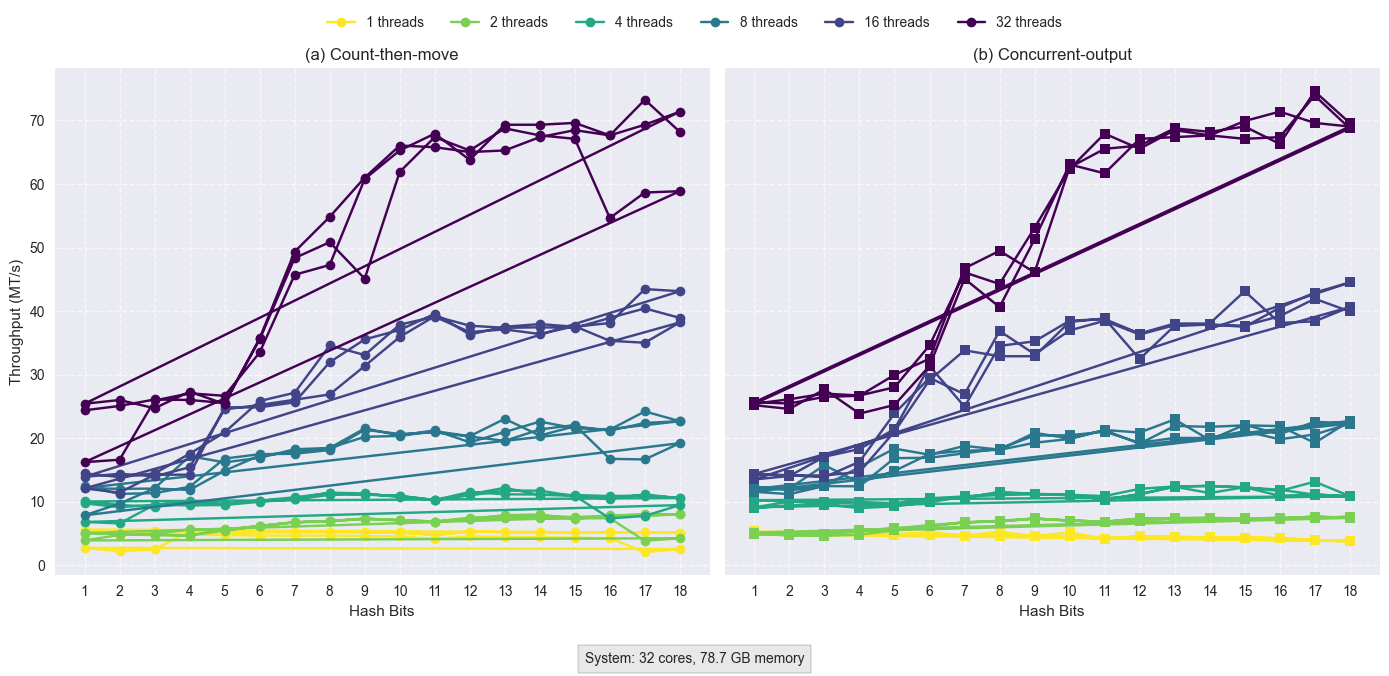
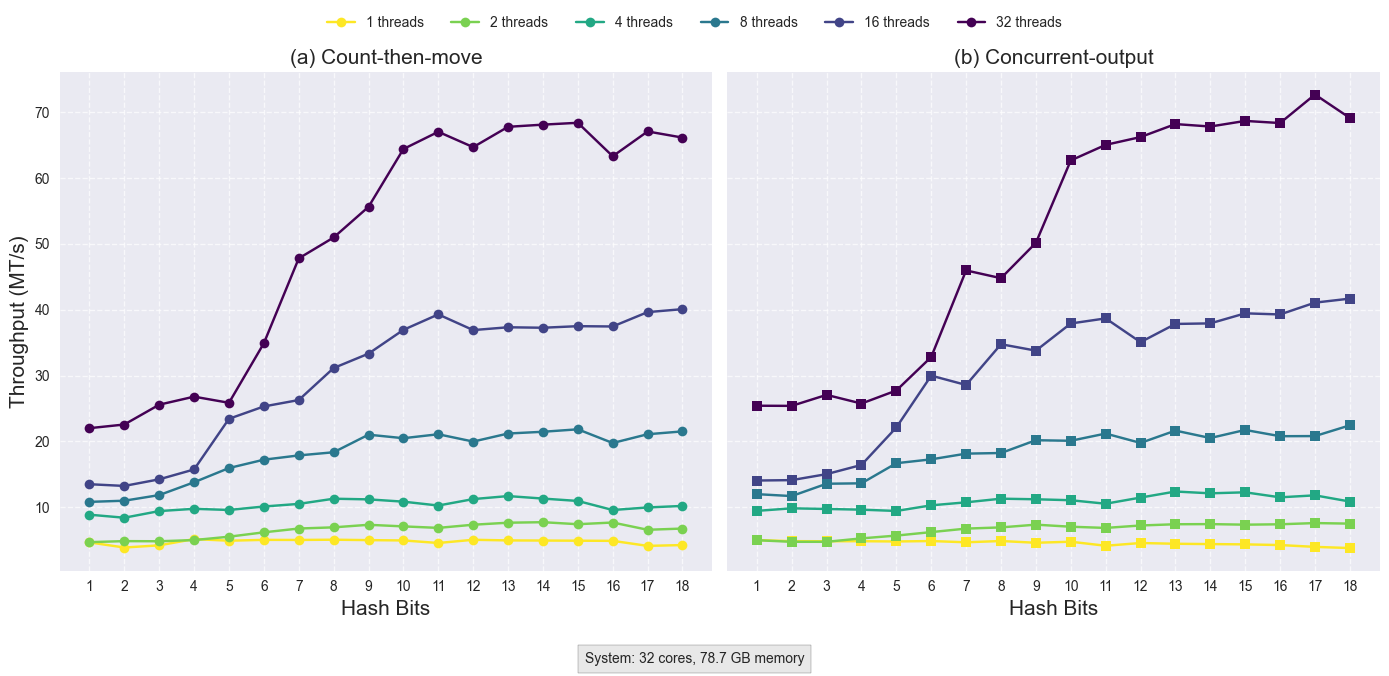
Mean shit

diff --git a/assignment1/stats.py b/assignment1/stats.py
@@ -14,9 +14,8 @@ metrics_df['Throughput(MT/s)'] = metrics_df['data_size'] / \
     metrics_df['duration'] / 1000
 
 # Split into two sets based on column "algorithm"
-count_then_move_df = metrics_df[metrics_df['algorithm'] == 'count-then-move']
-concurrent_output_df = metrics_df[metrics_df['algorithm']
-                                  == 'concurrent-output']
+count_then_move_df = metrics_df[metrics_df['algorithm'] == 'count-then-move'].groupby(['algorithm', 'threads', 'hashbits'], as_index=False).mean()
+concurrent_output_df = metrics_df[metrics_df['algorithm'] == 'concurrent-output'].groupby(['algorithm', 'threads', 'hashbits'], as_index=False).mean()
 
 # Create subplots
 fig, (ax1, ax2) = plt.subplots(1, 2, figsize=(14, 6), sharey=True)
@@ -41,9 +40,9 @@ for i, thread in enumerate(sorted(count_then_move_df['threads'].unique())):
              color=colors[i],
              label=f'{thread} threads')
 
-ax1.set_title('(a) Count-then-move')
-ax1.set_xlabel('Hash Bits')
-ax1.set_ylabel('Throughput (MT/s)')
+ax1.set_title('(a) Count-then-move', fontsize=15)
+ax1.set_xlabel('Hash Bits', fontsize=15)
+ax1.set_ylabel('Throughput (MT/s)', fontsize=15)
 ax1.grid(True, linestyle='--', alpha=0.7)
 max_hashbits = max(metrics_df['hashbits'])
 ax1.set_xticks(range(1, max_hashbits + 1))
@@ -58,14 +57,10 @@ if not concurrent_output_df.empty:
                  color=colors[i],
                  label=f'{thread} threads')
 
-    ax2.set_title('(b) Concurrent-output')
-    ax2.set_xlabel('Hash Bits')
-    ax2.grid(True, linestyle='--', alpha=0.7)
-    ax2.set_xticks(range(1, max_hashbits + 1))
-else:
-    ax2.set_title('(b) Concurrent-output (No data)')
-    ax2.set_xlabel('Hash Bits')
-    ax2.grid(True, linestyle='--', alpha=0.7)
+ax2.set_title('(b) Concurrent-output', fontsize=15)
+ax2.set_xlabel('Hash Bits', fontsize=15)
+ax2.grid(True, linestyle='--', alpha=0.7)
+ax2.set_xticks(range(1, max_hashbits + 1))
 
 # Common legend
 handles, labels = ax1.get_legend_handles_labels()
